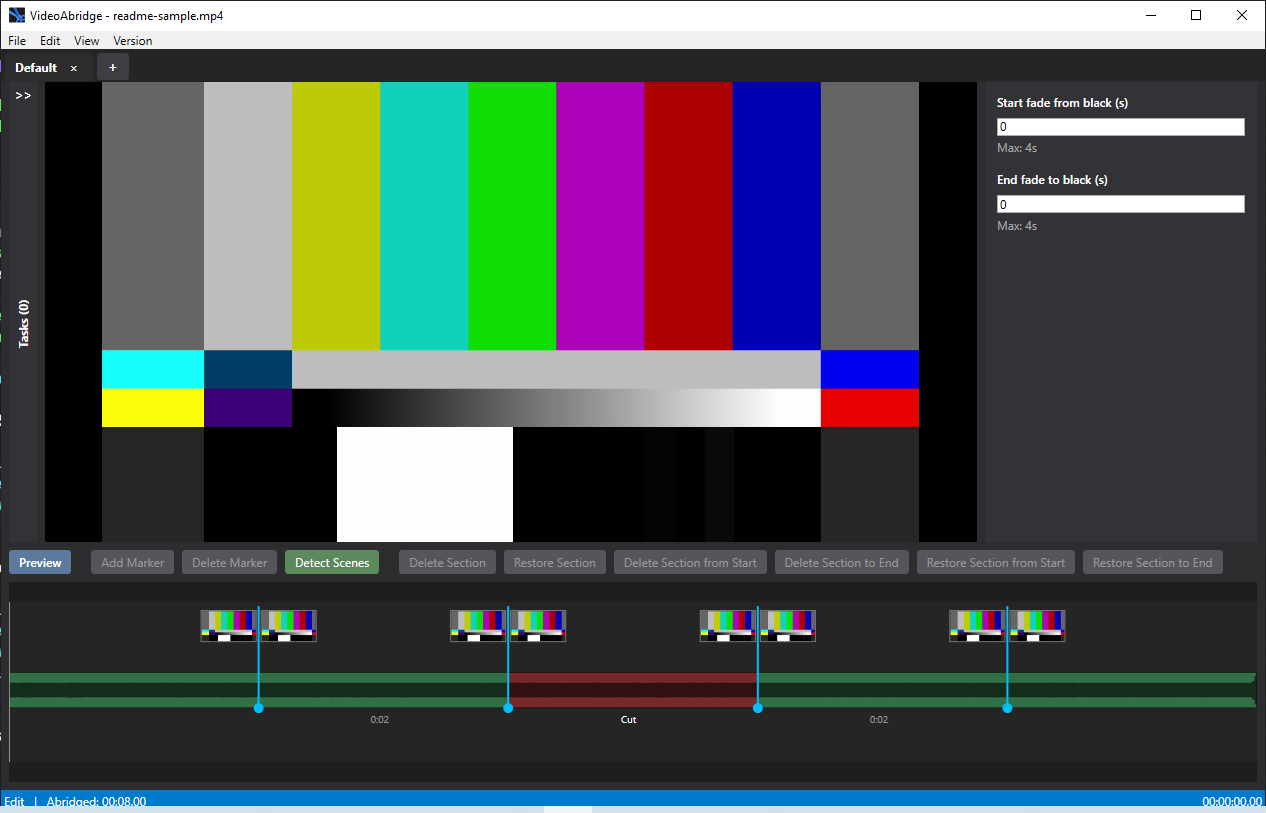
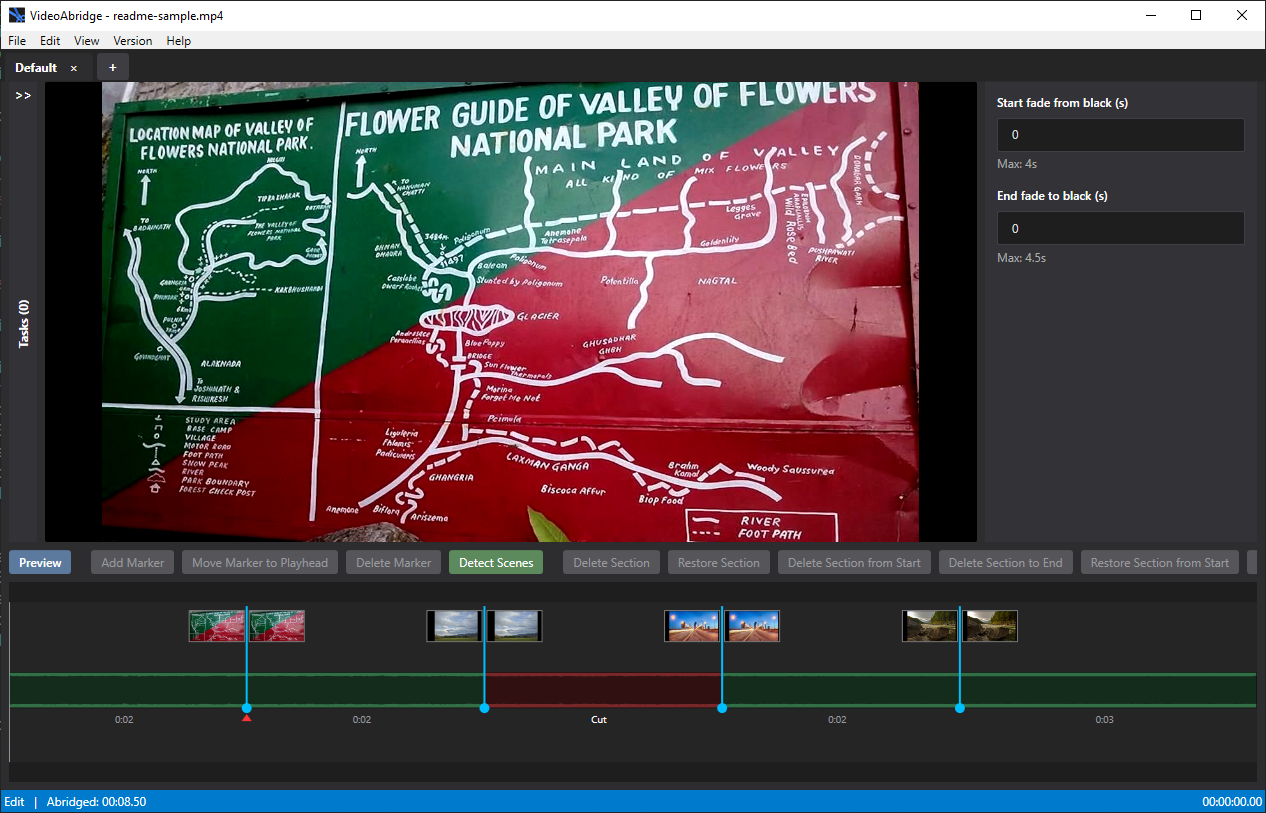
Better screenshot

diff --git a/tools/readme-sample/ATTRIBUTION.md b/tools/readme-sample/ATTRIBUTION.md
@@ -1,0 +1,13 @@
+# README sample stills
+
+These CC0 photographs are used only to compose the generated README capture fixture
+(`tools/fixtures/readme-sample.mp4` via `tools/capture-readme-screenshot.ps1`).
+
+| File | Source | Author | License |
+|------|--------|--------|---------|
+| `images/01-valley-flowers.jpg` | [Wikimedia Commons](https://commons.wikimedia.org/wiki/File:Flower_Map_of_Valley_of_Flowers_Uttarakhand.jpg) | Daniel Romanson | [CC0 1.0](https://creativecommons.org/publicdomain/zero/1.0/) |
+| `images/02-landscape-clouds.jpg` | [Wikimedia Commons](https://commons.wikimedia.org/wiki/File:Landscape_with_clouds.jpg) | Aammell | [CC0 1.0](https://creativecommons.org/publicdomain/zero/1.0/) |
+| `images/03-city-skyline.jpg` | [Wikimedia Commons](https://commons.wikimedia.org/wiki/File:Springfield_MA_Skyline_at_Dusk.jpg) | Alex Grichenko | [CC0 1.0](https://creativecommons.org/publicdomain/zero/1.0/) |
+| `images/04-mountains.jpg` | [Wikimedia Commons](https://commons.wikimedia.org/wiki/File:Landscape-mountains-nature-rocks_(24300703366).jpg) | www.Pixel.la Free Stock Photos | [CC0 1.0](https://creativecommons.org/publicdomain/zero/1.0/) |
+
+Images were resized for packaging; licensing is unchanged.

diff --git a/README.md b/README.md
@@ -95,7 +95,7 @@ dotnet test tests/VideoAbridge.FFmpeg.Tests/VideoAbridge.FFmpeg.Tests.csproj
 
 ## README screenshot
 
-The hero image is captured automatically on **Windows** before `git push` (markers + one deleted section on a generated sample clip).
+The hero image is captured automatically on **Windows** before `git push` (markers + one deleted section on a sample clip composed from [CC0 stills](tools/readme-sample/ATTRIBUTION.md)).
 
 ```powershell
 pwsh tools/install-hooks.ps1          # once per clone: core.hooksPath=.githooks

diff --git a/CHANGELOG.md b/CHANGELOG.md
@@ -7,6 +7,10 @@ and this project adheres to [Semantic Versioning](https://semver.org/spec/v2.0.0
 
 ## [Unreleased]
 
+### Changed
+
+- README hero sample clip is composed from CC0 stills (see `tools/readme-sample/`) instead of SMPTE color bars.
+
 ## [2026.11.8] - 2026-11-23
 
 ### Added
